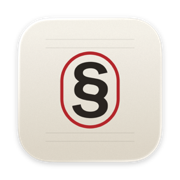
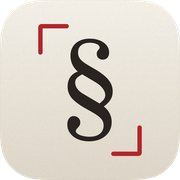
Marke: Offenen Fokus B2 übernehmen
Die ausgewählte Bildmarke als skalierbare Vektorkontur im Website-Kopf und als adaptives Favicon verwenden. App-Kachel und Lizenz stammen aus dem gemeinsamen Generator des App-Projekts; Inhaltsversionen verhindern veraltete Hostingdateien.

diff --git a/gesetze.html b/gesetze.html
@@ -7,14 +7,15 @@
   <title>Kostenlose Gesetze | Normblick</title>
   <meta name="description" content="Alle kostenlos enthaltenen Gesetze der Normblick-Grundsammlung. Nach Gesetz oder Rechtskreis filtern.">
   <link rel="canonical" href="https://normblick.luneq.eu/gesetze.html">
-  <link rel="icon" href="assets/favicon.png" type="image/png">
-  <link rel="apple-touch-icon" href="assets/icon-180.png">
-  <link rel="stylesheet" href="assets/site.css?v=528f00642305">
+  <link rel="icon" href="assets/favicon.png?v=cdacf3f0769f" sizes="32x32" type="image/png">
+  <link rel="icon" href="assets/favicon.svg?v=b4dbe36185fb" type="image/svg+xml">
+  <link rel="apple-touch-icon" href="assets/icon-180.png?v=c4f63734b120">
+  <link rel="stylesheet" href="assets/site.css?v=ca8c3537c889">
   <script src="assets/katalog.js?v=a0081f4eefa9" defer></script>
 </head>
 <body>
   <a class="skip-link" href="#inhalt" data-od-id="legal-skip-link">Zum Inhalt</a>
-  <header class="site-header" data-od-id="legal-site-header"><div class="wrap nav-row"><a class="wordmark" href="index.html" aria-label="Normblick, Startseite" data-od-id="legal-home"><img src="assets/icon-180.png" alt="" width="38" height="38">Normblick</a><a class="text-link" href="index.html" data-od-id="legal-back" aria-label="Zurück zur Startseite">Zurück <span aria-hidden="true">↗</span></a></div></header>
+  <header class="site-header" data-od-id="legal-site-header"><div class="wrap nav-row"><a class="wordmark" href="index.html" aria-label="Normblick, Startseite" data-od-id="legal-home"><img src="assets/marke.svg?v=b4dbe36185fb" alt="" width="38" height="38">Normblick</a><a class="text-link" href="index.html" data-od-id="legal-back" aria-label="Zurück zur Startseite">Zurück <span aria-hidden="true">↗</span></a></div></header>
   <main id="inhalt" class="wrap catalog-page" tabindex="-1">
     <header class="catalog-header"><p class="eyebrow">Die kostenlose Grundsammlung</p><h1>Welche Gesetze<br>sind in Free?</h1><p>914 Gesetze und Rechtsakte aus Bund, allen 16 Ländern, EU und Europarat. Hier finden Sie die konkrete Auswahl des vorbereiteten Launchmodells.</p><p class="small">Abgeglichen mit der App-Auswahl am 19. Oktober 2026. Mitgelieferter Bestand: Oktober 2026. Noch kein öffentlicher Download. Dies ist ein Inhaltsverzeichnis, kein Online-Gesetzesportal.</p></header>
     <form class="catalog-filters" role="search" aria-label="Kostenlose Gesetze filtern" hidden><div><label for="gesetzsuche">Gesetz oder Abkürzung</label><input id="gesetzsuche" name="q" type="search" placeholder="z. B. BGB, Bauordnung oder DSGVO" autocomplete="off" aria-controls="gesetzliste"></div><div><label for="rechtskreis">Rechtskreis</label><select id="rechtskreis" name="quelle" aria-controls="gesetzliste"><option value="alle">Alle Rechtskreise</option><option value="bund">Bund</option><option value="lbw">Baden-Württemberg</option><option value="lby">Bayern</option><option value="lbe">Berlin</option><option value="lbb">Brandenburg</option><option value="lhb">Bremen</option><option value="lhh">Hamburg</option><option value="lhe">Hessen</option><option value="lmv">Mecklenburg-Vorpommern</option><option value="lni">Niedersachsen</option><option value="lnw">Nordrhein-Westfalen</option><option value="lrp">Rheinland-Pfalz</option><option value="lsl">Saarland</option><option value="lsn">Sachsen</option><option value="lsa">Sachsen-Anhalt</option><option value="lsh">Schleswig-Holstein</option><option value="lth">Thüringen</option><option value="eu">Europäische Union</option><option value="coe">Europarat</option></select></div><button class="button" type="reset">Zurücksetzen</button></form>

diff --git a/index.html b/index.html
@@ -7,8 +7,9 @@
   <title>Normblick | Vom Gesetzeszitat zum amtlichen Wortlaut</title>
   <meta name="description" content="Normblick erkennt Fundstellen per OCR-Lupe und öffnet nach einem Klick den amtlichen Wortlaut. Native Mac-App, lokaler Gesetzesbestand. Testzugang anfragen.">
   <link rel="canonical" href="https://normblick.luneq.eu/">
-  <link rel="icon" href="assets/favicon.png" type="image/png">
-  <link rel="apple-touch-icon" href="assets/icon-180.png">
+  <link rel="icon" href="assets/favicon.png?v=cdacf3f0769f" sizes="32x32" type="image/png">
+  <link rel="icon" href="assets/favicon.svg?v=b4dbe36185fb" type="image/svg+xml">
+  <link rel="apple-touch-icon" href="assets/icon-180.png?v=c4f63734b120">
   <meta property="og:type" content="website">
   <meta property="og:locale" content="de_DE">
   <meta property="og:site_name" content="Normblick">
@@ -20,7 +21,7 @@
   <meta property="og:image:height" content="1120">
   <meta property="og:image:alt" content="Normblick zeigt § 823 BGB mit Paragraphenliste und amtlichem Wortlaut.">
   <meta name="twitter:card" content="summary_large_image">
-  <link rel="stylesheet" href="assets/site.css?v=528f00642305">
+  <link rel="stylesheet" href="assets/site.css?v=ca8c3537c889">
   <link rel="stylesheet" href="assets/workflow.css?v=3b4da6df850c">
   <script src="assets/workflow.js?v=7b3295de0904" defer></script>
   <script src="assets/site.js?v=ec51a5ae1a60" defer></script>
@@ -131,7 +132,7 @@
   <a class="skip-link" href="#inhalt" data-od-id="skip-link">Zum Inhalt</a>
   <header class="site-header" data-od-id="site-header">
     <div class="wrap nav-row">
-      <a class="wordmark" href="index.html" aria-label="Normblick, Startseite" data-od-id="home-link"><img src="assets/icon-180.png" alt="" width="38" height="38">Normblick</a>
+      <a class="wordmark" href="index.html" aria-label="Normblick, Startseite" data-od-id="home-link"><img src="assets/marke.svg?v=b4dbe36185fb" alt="" width="38" height="38">Normblick</a>
       <button class="menu-toggle" type="button" aria-controls="hauptnavigation" aria-expanded="false" data-od-id="menu-toggle" hidden>Menü</button>
       <nav id="hauptnavigation" class="main-nav" aria-label="Hauptnavigation" data-od-id="main-navigation">
         <a href="#lupe" data-od-id="nav-workflow">Die Lupe</a>
@@ -320,7 +321,7 @@
     </section>
 
     <section id="testzugang" class="section wrap test-section" aria-labelledby="test-title" data-od-id="test-section">
-      <img src="assets/icon-180.png" alt="" width="72" height="72" loading="lazy">
+      <img src="assets/icon-180.png?v=c4f63734b120" alt="" width="72" height="72" loading="lazy">
       <h2 id="test-title" data-od-id="test-title">Normblick im Alltag erproben.</h2>
       <p>Ob im Studium, im Referendariat oder in der Praxis: Testen Sie den Weg vom Zitat zum Wortlaut in Ihren eigenen Dokumenten. Einen Testzugang erhalten Sie auf Anfrage bei Luneq Studio.</p>
       <a class="button primary" href="mailto:studio@luneq.eu?subject=Normblick%20-%20Testzugang%20anfragen" data-od-id="bottom-test-request">Testzugang anfragen <span aria-hidden="true">↗</span></a>

diff --git a/datenschutz.html b/datenschutz.html
@@ -7,13 +7,14 @@
   <title>Datenschutzerklärung | Normblick</title>
   <meta name="description" content="Datenschutzerklärung für Normblick und Luneq Studio. Verantwortlicher und Kontakt: Philipp Horn.">
   <link rel="canonical" href="https://normblick.luneq.eu/datenschutz.html">
-  <link rel="icon" href="assets/favicon.png" type="image/png">
-  <link rel="apple-touch-icon" href="assets/icon-180.png">
-  <link rel="stylesheet" href="assets/site.css?v=528f00642305">
+  <link rel="icon" href="assets/favicon.png?v=cdacf3f0769f" sizes="32x32" type="image/png">
+  <link rel="icon" href="assets/favicon.svg?v=b4dbe36185fb" type="image/svg+xml">
+  <link rel="apple-touch-icon" href="assets/icon-180.png?v=c4f63734b120">
+  <link rel="stylesheet" href="assets/site.css?v=ca8c3537c889">
 </head>
 <body>
   <a class="skip-link" href="#inhalt" data-od-id="legal-skip-link">Zum Inhalt</a>
-  <header class="site-header" data-od-id="legal-site-header"><div class="wrap nav-row"><a class="wordmark" href="index.html" aria-label="Normblick, Startseite" data-od-id="legal-home"><img src="assets/icon-180.png" alt="" width="38" height="38">Normblick</a><a class="text-link" href="index.html" data-od-id="legal-back" aria-label="Zurück zur Startseite">Zurück <span aria-hidden="true">↗</span></a></div></header>
+  <header class="site-header" data-od-id="legal-site-header"><div class="wrap nav-row"><a class="wordmark" href="index.html" aria-label="Normblick, Startseite" data-od-id="legal-home"><img src="assets/marke.svg?v=b4dbe36185fb" alt="" width="38" height="38">Normblick</a><a class="text-link" href="index.html" data-od-id="legal-back" aria-label="Zurück zur Startseite">Zurück <span aria-hidden="true">↗</span></a></div></header>
   <main id="inhalt" class="legal-wrap" tabindex="-1" data-od-id="legal-content">
     <header class="legal-header"><h1 data-od-id="legal-title">Datenschutz&shy;erklärung</h1></header>
     <div class="page-content">

diff --git a/impressum.html b/impressum.html
@@ -7,13 +7,14 @@
   <title>Impressum | Normblick</title>
   <meta name="description" content="Impressum für Normblick und Luneq Studio. Verantwortlicher und Kontakt: Philipp Horn.">
   <link rel="canonical" href="https://normblick.luneq.eu/impressum.html">
-  <link rel="icon" href="assets/favicon.png" type="image/png">
-  <link rel="apple-touch-icon" href="assets/icon-180.png">
-  <link rel="stylesheet" href="assets/site.css?v=528f00642305">
+  <link rel="icon" href="assets/favicon.png?v=cdacf3f0769f" sizes="32x32" type="image/png">
+  <link rel="icon" href="assets/favicon.svg?v=b4dbe36185fb" type="image/svg+xml">
+  <link rel="apple-touch-icon" href="assets/icon-180.png?v=c4f63734b120">
+  <link rel="stylesheet" href="assets/site.css?v=ca8c3537c889">
 </head>
 <body>
   <a class="skip-link" href="#inhalt" data-od-id="legal-skip-link">Zum Inhalt</a>
-  <header class="site-header" data-od-id="legal-site-header"><div class="wrap nav-row"><a class="wordmark" href="index.html" aria-label="Normblick, Startseite" data-od-id="legal-home"><img src="assets/icon-180.png" alt="" width="38" height="38">Normblick</a><a class="text-link" href="index.html" data-od-id="legal-back" aria-label="Zurück zur Startseite">Zurück <span aria-hidden="true">↗</span></a></div></header>
+  <header class="site-header" data-od-id="legal-site-header"><div class="wrap nav-row"><a class="wordmark" href="index.html" aria-label="Normblick, Startseite" data-od-id="legal-home"><img src="assets/marke.svg?v=b4dbe36185fb" alt="" width="38" height="38">Normblick</a><a class="text-link" href="index.html" data-od-id="legal-back" aria-label="Zurück zur Startseite">Zurück <span aria-hidden="true">↗</span></a></div></header>
   <main id="inhalt" class="legal-wrap" tabindex="-1" data-od-id="legal-content">
     <header class="legal-header"><h1 data-od-id="legal-title">Impressum</h1></header>
     <div class="page-content">

diff --git a/404.html b/404.html
@@ -6,12 +6,13 @@
   <meta name="color-scheme" content="light dark">
   <meta name="robots" content="noindex">
   <title>Seite nicht gefunden | Normblick</title>
-  <link rel="icon" href="/assets/favicon.png" type="image/png">
-  <link rel="stylesheet" href="/assets/site.css?v=528f00642305">
+  <link rel="icon" href="/assets/favicon.png?v=cdacf3f0769f" sizes="32x32" type="image/png">
+  <link rel="icon" href="/assets/favicon.svg?v=b4dbe36185fb" type="image/svg+xml">
+  <link rel="stylesheet" href="/assets/site.css?v=ca8c3537c889">
 </head>
 <body>
   <a class="skip-link" href="#inhalt">Zum Inhalt</a>
-  <header class="site-header"><div class="wrap nav-row"><a class="wordmark" href="/" aria-label="Normblick, Startseite"><img src="/assets/icon-180.png" width="38" height="38" alt="">Normblick</a></div></header>
+  <header class="site-header"><div class="wrap nav-row"><a class="wordmark" href="/" aria-label="Normblick, Startseite"><img src="/assets/marke.svg?v=b4dbe36185fb" width="38" height="38" alt="">Normblick</a></div></header>
   <main id="inhalt" class="legal-wrap" tabindex="-1">
     <header class="legal-header"><p class="eyebrow">404</p><h1>Hier ist keine Seite.</h1></header>
     <div class="page-content"><p>Die Adresse wurde möglicherweise geändert oder die Seite existiert nicht. Auf der Startseite finden Sie die App, ihre Funktionen und den Testzugang.</p><p><a class="button primary" href="/">Zur Startseite <span aria-hidden="true">→</span></a></p></div>

diff --git a/assets/site.css b/assets/site.css
@@ -63,7 +63,7 @@ section[id], #bestand { scroll-margin-top: 100px; }
 /* Layer scale: header 1; modal native top layer; skip link 4. */
 .site-header { position: relative; z-index: 1; background: var(--bg); border-bottom: 1px solid var(--border); }
 .nav-row { min-height: 76px; display: flex; justify-content: space-between; align-items: center; gap: 24px; }
-.wordmark { display: inline-flex; min-height: 44px; align-items: center; gap: 10px; font: 600 22px/1 var(--font-display); letter-spacing: -.035em; text-decoration: none; flex-shrink: 0; }
+.wordmark { display: inline-flex; min-height: 44px; align-items: center; gap: 10px; font: 550 22px/1 var(--font-display); letter-spacing: -.035em; text-decoration: none; flex-shrink: 0; }
 .wordmark img { flex-shrink: 0; }
 .main-nav { display: flex; align-items: center; gap: 30px; }
 .main-nav a { display: inline-flex; align-items: center; gap: 8px; min-height: 44px; font-size: 14px; font-weight: 550; letter-spacing: .02em; text-decoration: none; }

diff --git a/brand-spec.md b/brand-spec.md
@@ -1,6 +1,6 @@
 # Visuelle Grundlage
 
-Das Markenrot wurde aus dem unveränderten `assets/icon-512.png` gelesen: häufigster deckender Rotpixel RGB 179/38/43, entsprechend OKLch 50.271% / 0.17678 / 24.815°. Die kühlen Neutraltokens und nativen Font-Stacks stammen aus der Richtung Modern minimal.
+Die ausgewählte Bildmarke heißt **B2 – Offener Fokus**: ein typografisches Paragraphzeichen mit zwei feinen diagonalen Fokuswinkeln. Das Markenrot der bisherigen Farbwelt bleibt RGB 179/38/43, entsprechend OKLch 50.271% / 0.17678 / 24.815°. Die kühlen Neutraltokens und nativen Font-Stacks bleiben erhalten.
 
 ```css
 --bg: oklch(99% 0.002 240);
@@ -16,6 +16,25 @@ Das Markenrot wurde aus dem unveränderten `assets/icon-512.png` gelesen: häufi
 
 1. Echte App-Fenster liefern die visuelle Substanz, ohne zusätzliche Browser-Chrome.
 2. Präzise Sans-Typografie begleitet die Serifenschrift der Gesetzestexte in den Aufnahmen.
-3. Markenrot gehört dem Icon und der primären Testanfrage; übrige Links bleiben neutral.
+3. Markenrot gehört den Fokuswinkeln und der primären Testanfrage; übrige Links bleiben neutral.
 4. Inhalt wird mit Weißraum und sparsamen Trennlinien organisiert, nicht mit dekorativen Karten.
 5. Jede Interaktion bleibt bewusst ausgelöst; der Inhalt ist jederzeit sichtbar.
+
+## Reproduzierbare Marke
+
+`assets/marke.svg` ist die freistehende Bildmarke für den Website-Kopf und folgt
+dem hellen oder dunklen Systemthema. Das adaptive `favicon.svg` verwendet dieselbe
+Kontur. Apple-Touch-Icon und PNG-Fallback verwenden die App-Kachel.
+
+Die Konturen und Größen kommen aus `../Normblick/scripts/make-icon.py`; die
+erzeugten Dateien hier nicht von Hand verändern:
+
+```bash
+cd ../Normblick
+python3 scripts/make-icon.py --web ../normblick-web/assets
+```
+
+Danach die Inhaltsversionen in den HTML-Verweisen aktualisieren und die
+Website-Prüfung ausführen. Für das Paragraphzeichen ist die Kontur aus
+Libre Baskerville Regular ausgeschrieben. Es wird keine Schriftdatei geladen;
+die SIL-OFL-Lizenz wird als `assets/LibreBaskerville-OFL.txt` mitgeführt.

diff --git a/DESIGN.md b/DESIGN.md
@@ -1,6 +1,6 @@
 # Normblick
 
-Die Lupe ist das Key-Feature und trägt den Hero. Ein bedienbarer Vorschautext mit zwei echten Fundstellen zeigt den Wechsel vom Dokument zum amtlichen Wortlaut. Der Gesetzesbrowser folgt darunter, nicht als Ersatz für die Lupe. Das App-Icon bleibt unverändert.
+Die Lupe ist das Key-Feature und trägt den Hero. Ein bedienbarer Vorschautext mit zwei echten Fundstellen zeigt den Wechsel vom Dokument zum amtlichen Wortlaut. Der Gesetzesbrowser folgt darunter, nicht als Ersatz für die Lupe. Die Bildmarke wird nach der Auswahl vom 19. Oktober 2026 als B2 – Offener Fokus geführt: Paragraphzeichen und zwei leichte diagonale Winkel.
 
 - Grundlage: Modern minimal, mit dem aus dem echten Icon gewonnenen Markenrot. Tokens in `assets/site.css`; Herkunft in `brand-spec.md`.
 - Schrift: SF Pro Display und SF Pro Text mit System-Fallbacks. Keine Font-Downloads.
@@ -29,3 +29,11 @@ Die Lupe ist das Key-Feature und trägt den Hero. Ein bedienbarer Vorschautext m
 - Separater Free-Katalog mit Suche und Rechtskreisfilter. Statisches HTML bleibt
   die Inhaltsquelle und ohne JavaScript zugänglich. Keine simulierte App-Suche,
   keine OCR im Browser, kein neuer externer Dienst.
+
+## Übernahme der gewählten Bildmarke B2
+
+Die Website verwendet im Kopf die freistehende Vektormarke, nicht die verkleinerte
+App-Kachel. Tinte und Fokuswinkel passen sich im SVG an das Systemthema an. Die
+Kachel bleibt im Testzugang-Abschluss und als Apple-Touch-Icon. Die Wortmarke
+bleibt im Systemschrift-Stack, mit etwas ruhigerem Gewicht. Herkunft, Export und
+Lizenz stehen in `brand-spec.md`.

diff --git a/docs/website-check.md b/docs/website-check.md
@@ -79,3 +79,19 @@ vollständig wiederholt. Die neue Katalogliste ist statisch im HTML enthalten;
 eine gesonderte Browserprüfung mit abgeschaltetem JavaScript erfolgte für diese
 Änderung nicht. App-Release, App-Store-Veröffentlichung und echte Store-Käufe
 sind nicht Gegenstand dieser Website-Aktualisierung.
+
+## Gewählte Bildmarke B2 – 19. Oktober 2026
+
+- B2 „Offener Fokus“ nach Auswahl des Betreibers als deterministische
+  Vektorkontur übernommen. Freistehendes SVG in allen fünf Website-Köpfen,
+  adaptives SVG-Favicon, neue PNG-Kachel für Apple-Touch-Icon und Fallback.
+- Dateien aus `../Normblick/scripts/make-icon.py --web …` erzeugt; keine
+  installierte Schrift erforderlich, keine externen Font-Requests. Die
+  Lizenz zur ausgeschriebenen Libre-Baskerville-Kontur ist mitgeführt.
+- Helle und dunkle SVG-Erscheinung in einer lokalen, anschließend entfernten
+  Prüfansicht visuell angesehen. Kleine Marke zusammen mit Wortmarke geprüft.
+- Startseite bei 320, 390, 768 und 1440 Pixeln kontrolliert. Übrige vier
+  Seiten bei 390 Pixeln: Markenbild geladen, kein horizontaler Überlauf,
+  keine protokollierten JavaScriptfehler.
+- Statische Seitenprüfung, Assetversionsprüfung und App-Katalogabgleich grün.
+  Alle geänderten SVG-/PNG-/CSS-Referenzen tragen Inhaltsversionen.

diff --git a/README.md b/README.md
@@ -55,3 +55,11 @@ node --check assets/katalog.js
 Die neuen App-Aufnahmen stammen aus dem Entwicklungsbau vom 19. Oktober 2026;
 Bilder sowie CSS und JavaScript tragen Inhaltsversionen in den HTML-Referenzen,
 damit der Hostingcache keinen alten Stand unter neuen Texten zeigt.
+
+## Bildmarke B2 – Offener Fokus
+
+Seit der Auswahl vom 19. Oktober 2026 verwenden Website und App-Icon dieselben
+Vektorkonturen. Die Web-Dateien werden aus dem App-Projekt exportiert; siehe
+`brand-spec.md`. Im Kopf steht die freigestellte adaptive SVG-Marke, als
+Apple-Touch-Icon und PNG-Fallback die App-Kachel. Alle geänderten Referenzen
+tragen Inhaltsversionen gegen veraltete Hostingcache-Dateien.
